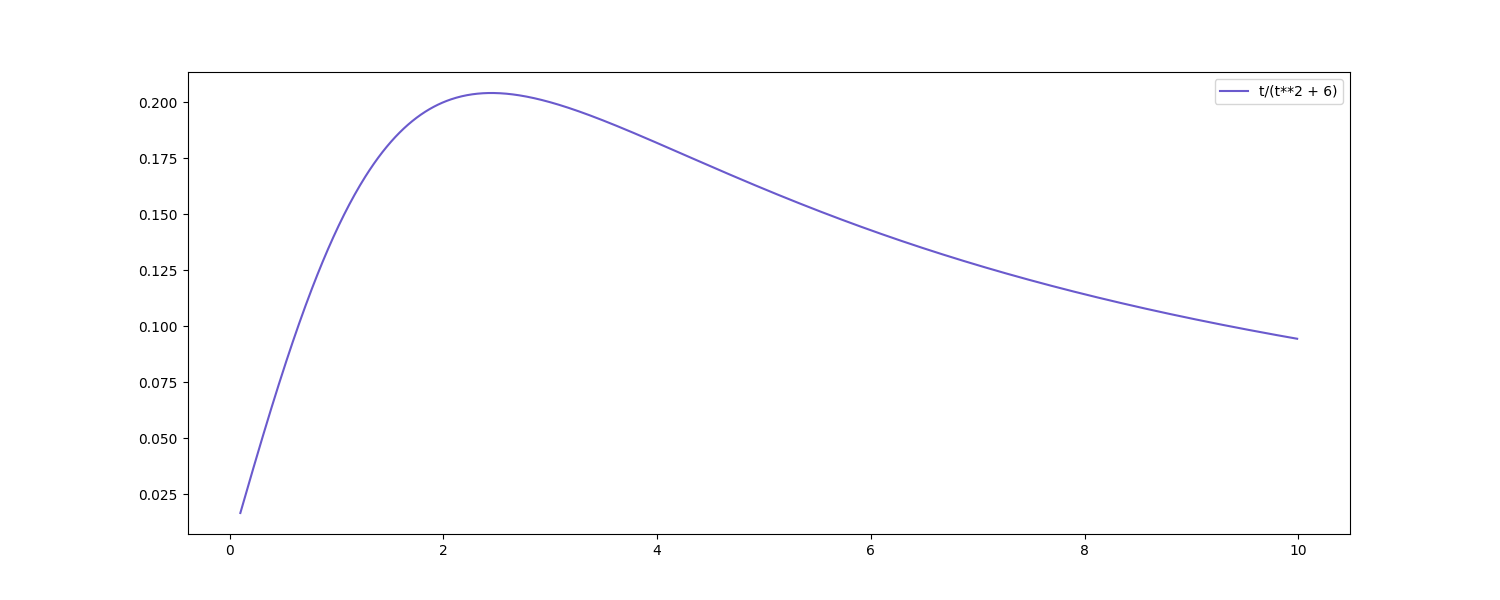
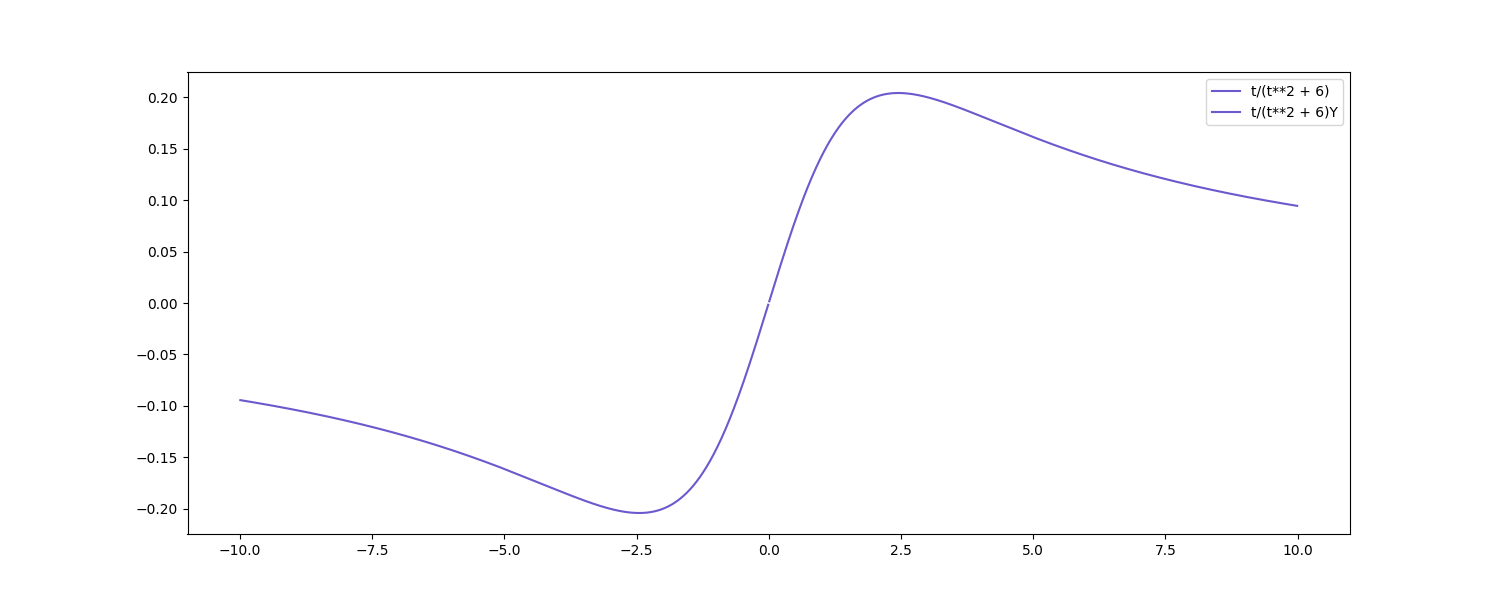
sympy Training 20210214-03

diff --git a/High03-41-1.py b/High03-41-1.py
@@ -18,15 +18,22 @@ tan_theta = (tan_alpha-tan_beta)/(1+tan_alpha*tan_beta)
 # 数式の簡略化
 #print(sym.simplify(tan_theta))
 
-# tan_thetaをグラフ化する
-x_plot = np.arange(0.1,10,0.01)
+# tan_thetaをグラフ化する...(1)
+x_plot = np.arange(0.01,10,0.01)
 y_plot_list = []
 for i in x_plot :
     y_plot_list.append(tan_theta.subs(t, i))
 y_plot = np.array(y_plot_list)
+# (1)をY軸対象にする
+x_plot2 = x_plot*(-1)
+y_plot_list_2 = []
+for i in x_plot2 :
+    y_plot_list_2.append(tan_theta.subs(t, i))
+y_plot2 = np.array(y_plot_list_2)
 
 plt.figure(figsize=(15.0, 6.0))
 plt.plot(x_plot, y_plot, label=str(sym.simplify(tan_theta)), linestyle="-", color='slateblue')
+plt.plot(x_plot2, y_plot2, label=str(sym.simplify(tan_theta))+"Y", linestyle="-", color='slateblue')
 plt.legend()
 plt.savefig('High03-41-1_01.png')
 plt.close()
